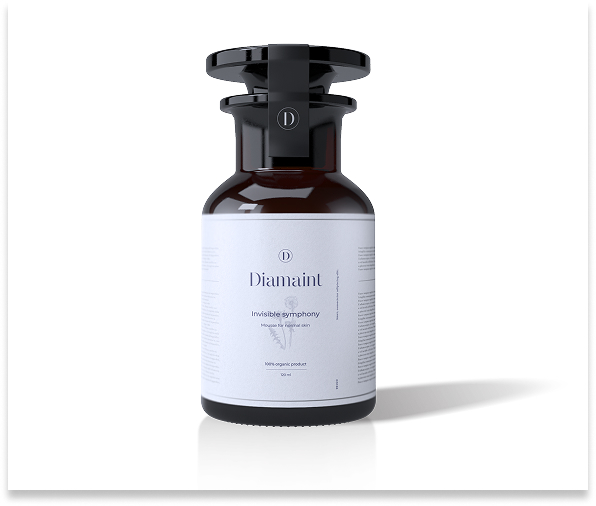
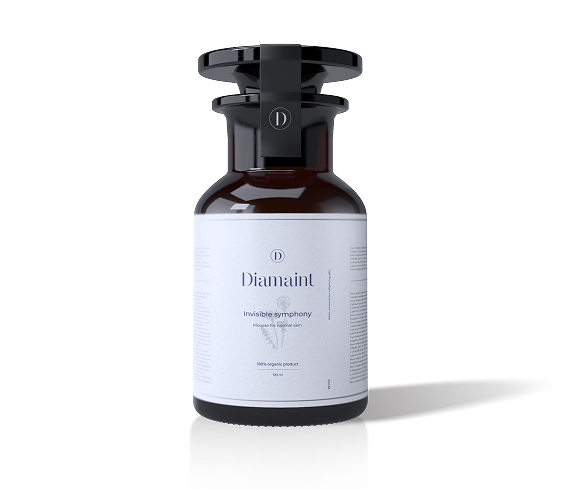
add product cards and css style

Changed region(s): [[0.3103, 0.0612, 0.9, 0.8878], [0.0, 0.949, 0.9931, 1.0]]

diff --git a/index.html b/index.html
@@ -5,26 +5,148 @@
   <meta charset="UTF-8">
   <meta name="viewport" content="width=device-width, initial-scale=1.0">
   <title>Document</title>
+  <link rel="stylesheet" href="style.css">
+  <link rel="preconnect" href="https://fonts.googleapis.com">
+  <link rel="preconnect" href="https://fonts.gstatic.com" crossorigin>
+  <link href="https://fonts.googleapis.com/css2?family=Montserrat:wght@400;500;700&display=swap" rel="stylesheet">
 </head>
 
 <body>
-  <h1>Выбери свой продукт</h1>
-  <ul>
-    <li>
-      <img src="images/moisturizing_mousse.jpg" alt="Товар увлажняющий мусс" width="290">
-      <span>для нормальной кожи</span>
-      <h2>Увлажняющий мусс</h2>
-      <p>Глубоко увлажняют кожу лица, оставляя её мягкой и гладкой.</p>
-      <span>Состав: </span>
-      <ul>
-        <li>активные натуральные комплексы</li>
-        <li>витамины С, А, РР, В И Е</li>
-        <li>солнцезащитные компоненты</li>
-      </ul>
-      <b>Цена:</b>
-      <span>2 750 &#8381</span>
-    </li>
-  </ul>
+  <h1 class="title">Выбери свой продукт</h1>
+  <div class="conteiner">
+
+    <ul class="product_list">
+
+      <li class="product_card">
+
+        <div class="image">
+          <img src="images/moisturizing_mousse.jpg" alt="Товар увлажняющий мусс" width="290">
+        </div>
+
+        <span class="product_category">для нормальной кожи</span>
+        <h2 class="main_text">Увлажняющий мусс</h2>
+        <p class="description">Глубоко увлажняют кожу лица, оставляя её мягкой и гладкой.</p>
+
+        <span class="compound">Состав:</span>
+
+        <ul class="ingredients">
+          <li>активные натуральные комплексы</li>
+          <li>витамины С, А, РР, В И Е</li>
+          <li>солнцезащитные компоненты</li>
+        </ul>
+
+        <div class="price">
+          <b>Цена</b>
+          <span>2 750 &#8381;</span>
+        </div>
+      </li>
+
+
+
+
+      <li class="product_card">
+
+        <div class="image">
+          <img src="images/moisturizing_mask.jpg" alt="Товар увлажняющая маска" width="290">
+        </div>
+
+        <span class="product_category">для нормальной кожи</span>
+        <h2 class="main_text">Увлажняющая маска</h2>
+        <p class="description">Способствует удерживанию влаги в верхних слоях кожи.</p>
+
+        <span class="compound">Состав: </span>
+
+        <ul class="ingredients">
+          <li>воски</li>
+          <li>минералы</li>
+          <li>масла</li>
+        </ul>
+
+        <div class="price">
+          <b>Цена</b>
+          <span>3 500 &#8381;</span>
+        </div>
+
+      </li>
+
+
+      <li class="product_card">
+
+        <div class="image">
+          <img src="images/cleansing_gel.jpg" alt="Товар гель для умывания" width="290">
+        </div>
+
+        <span class="product_category">для нормальной кожи</span>
+        <h2 class="main_text">Гель для умывания</h2>
+        <p class="description">Интенсивно очищает, не повреждает защитный барьер кожи.</p>
+
+        <span class="compound">Состав: </span>
+
+        <ul class="ingredients">
+          <li>минералы</li>
+          <li>витамины С, А, РР, В И Е</li>
+          <li>солнцезащитные компоненты</li>
+        </ul>
+
+        <div class="price">
+          <b>Цена</b>
+          <span>1 650 &#8381;</span>
+        </div>
+
+      </li>
+
+
+      <li class="product_card">
+
+        <div class="image">
+          <img src="images/gift_set_1.jpg" alt="Товар подарочный набор №1" width="290">
+        </div>
+        <span class="product_category">для нормальной кожи</span>
+        <h2 class="main_text">Подарочный набор №1</h2>
+        <p class="description">Набор, состоящий из увлажняющего крема и маски.</p>
+
+        <span class="compound">Состав: </span>
+
+        <ul class="ingredients">
+          <li>воски</li>
+          <li>минералы</li>
+          <li>масла</li>
+        </ul>
+
+        <div class="price">
+          <b>Цена</b>
+          <span>4 750 &#8381;</span>
+
+        </div>
+      </li>
+
+
+      <li class="product_card">
+
+        <div class="image">
+          <img src="images/gift_set_5.jpg" alt="Товар подарочный набор №5" width="290">
+        </div>
+
+        <span class="product_category">для нормальной кожи</span>
+        <h2 class="main_text">Подарочный набор №5</h2>
+        <p class="description">Весь набор средств Invisible symphony, крем, маска, мусс и гель для умывания.</p>
+
+        <span class="compound">Состав: </span>
+
+        <ul class="ingredients">
+          <li>воски</li>
+          <li>минералы</li>
+          <li>масла</li>
+        </ul>
+
+        <div class="price">
+          <b>Цена</b>
+          <span>7 520 &#8381;</span>
+        </div>
+
+      </li>
+    </ul>
+  </div>
 </body>
 
 </html>

diff --git a/style.css b/style.css
@@ -1,0 +1,103 @@
+body {
+  font-family: 'Montserrat', sans-serif;
+  font-size: 13px;
+  line-height: 18px;
+  color: #515076;
+  margin: 0px;
+  padding-top: 220px;
+}
+
+.title {
+  font-size: 70px;
+  font-weight: 400;
+  line-height: 78px;
+  margin: 0;
+  text-align: center;
+  color: #515076;
+  margin-bottom: 110px;
+}
+
+.conteiner {
+  display: flex;
+  justify-content: center;
+}
+
+.product_list {
+  list-style: none;
+  padding: 0;
+  display: flex;
+  flex-wrap: wrap;
+  justify-content: center;
+  align-items: center;
+  width: 1110px;
+  gap: 45px;
+}
+
+.product_card {
+  padding: 25px;
+  width: 340px;
+  background-color: #F7F7FA;
+  justify-self: center;
+  box-shadow: 2px 2px 10px rgba(81, 86, 92, 0.1);
+}
+
+.image {
+  margin-bottom: 30px;
+}
+
+.product_category {
+  display: block;
+  align-items: center;
+  font-size: 12px;
+  line-height: 24px;
+  font-weight: 400;
+  margin-bottom: 5px;
+  text-transform: uppercase;
+  color: #A5A3B9;
+}
+
+.main_text {
+  font-family: "Montserrat Bold", Arial, sans-serif;
+  font-size: 20px;
+  line-height: 27px;
+  margin: 0 0 5px 0;
+}
+
+.description {
+  font-size: 13px;
+  line-height: 18px;
+  font-weight: 400;
+  margin: 0 0 15px 0;
+}
+
+.compound {
+  display: block;
+  font-size: 13px;
+  line-height: 18px;
+  margin: 0 0 5px 0;
+}
+
+.ingredients {
+  list-style-type: circle;
+  font-size: 13px;
+  line-height: 18px;
+  font-weight: 400;
+  margin-bottom: 15px;
+  padding-left: 15px;
+  margin: 0 0 25px 0;
+}
+
+.product_card_list li {
+  margin-bottom: 5px;
+}
+
+.price {
+  display: flex;
+  justify-content: space-between;
+  font-size: 20px;
+  line-height: 24px;
+}
+
+.product_card-price b {
+  font-family: "Montserrat Bold", Arial, sans-serif;
+}